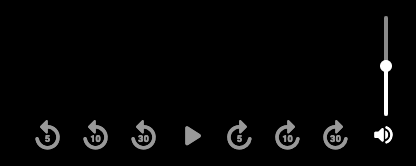
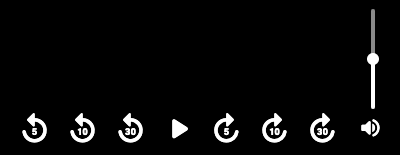
update screenshot add controls section in readme

diff --git a/README.md b/README.md
@@ -17,9 +17,34 @@ npm install --save shaka-player-ui-controls
 
 ⚠ Also install [Shaka Player](https://github.com/google/shaka-player) - [Shaka Player Documentation](https://shaka-player-demo.appspot.com/docs/api/tutorial-welcome.html)
 
+<br />
+
+<br />
+
+## UI Controls Included  
+<br />
+
+* **Vertical Volume Slider**
+<br />
+
+* **Rewind**: 
+  - 5 Seconds
+  - 10 Seconds
+  - 30 Seconds
+<br />
+<br />
+
+* **Fast Forward**: 
+  - 5 Seconds
+  - 10 Seconds
+  - 30 Seconds
+
+<br />
 
 ## Demo  
 Click here to see a demo.
+
+<br />
 
 ## Usage  
 
